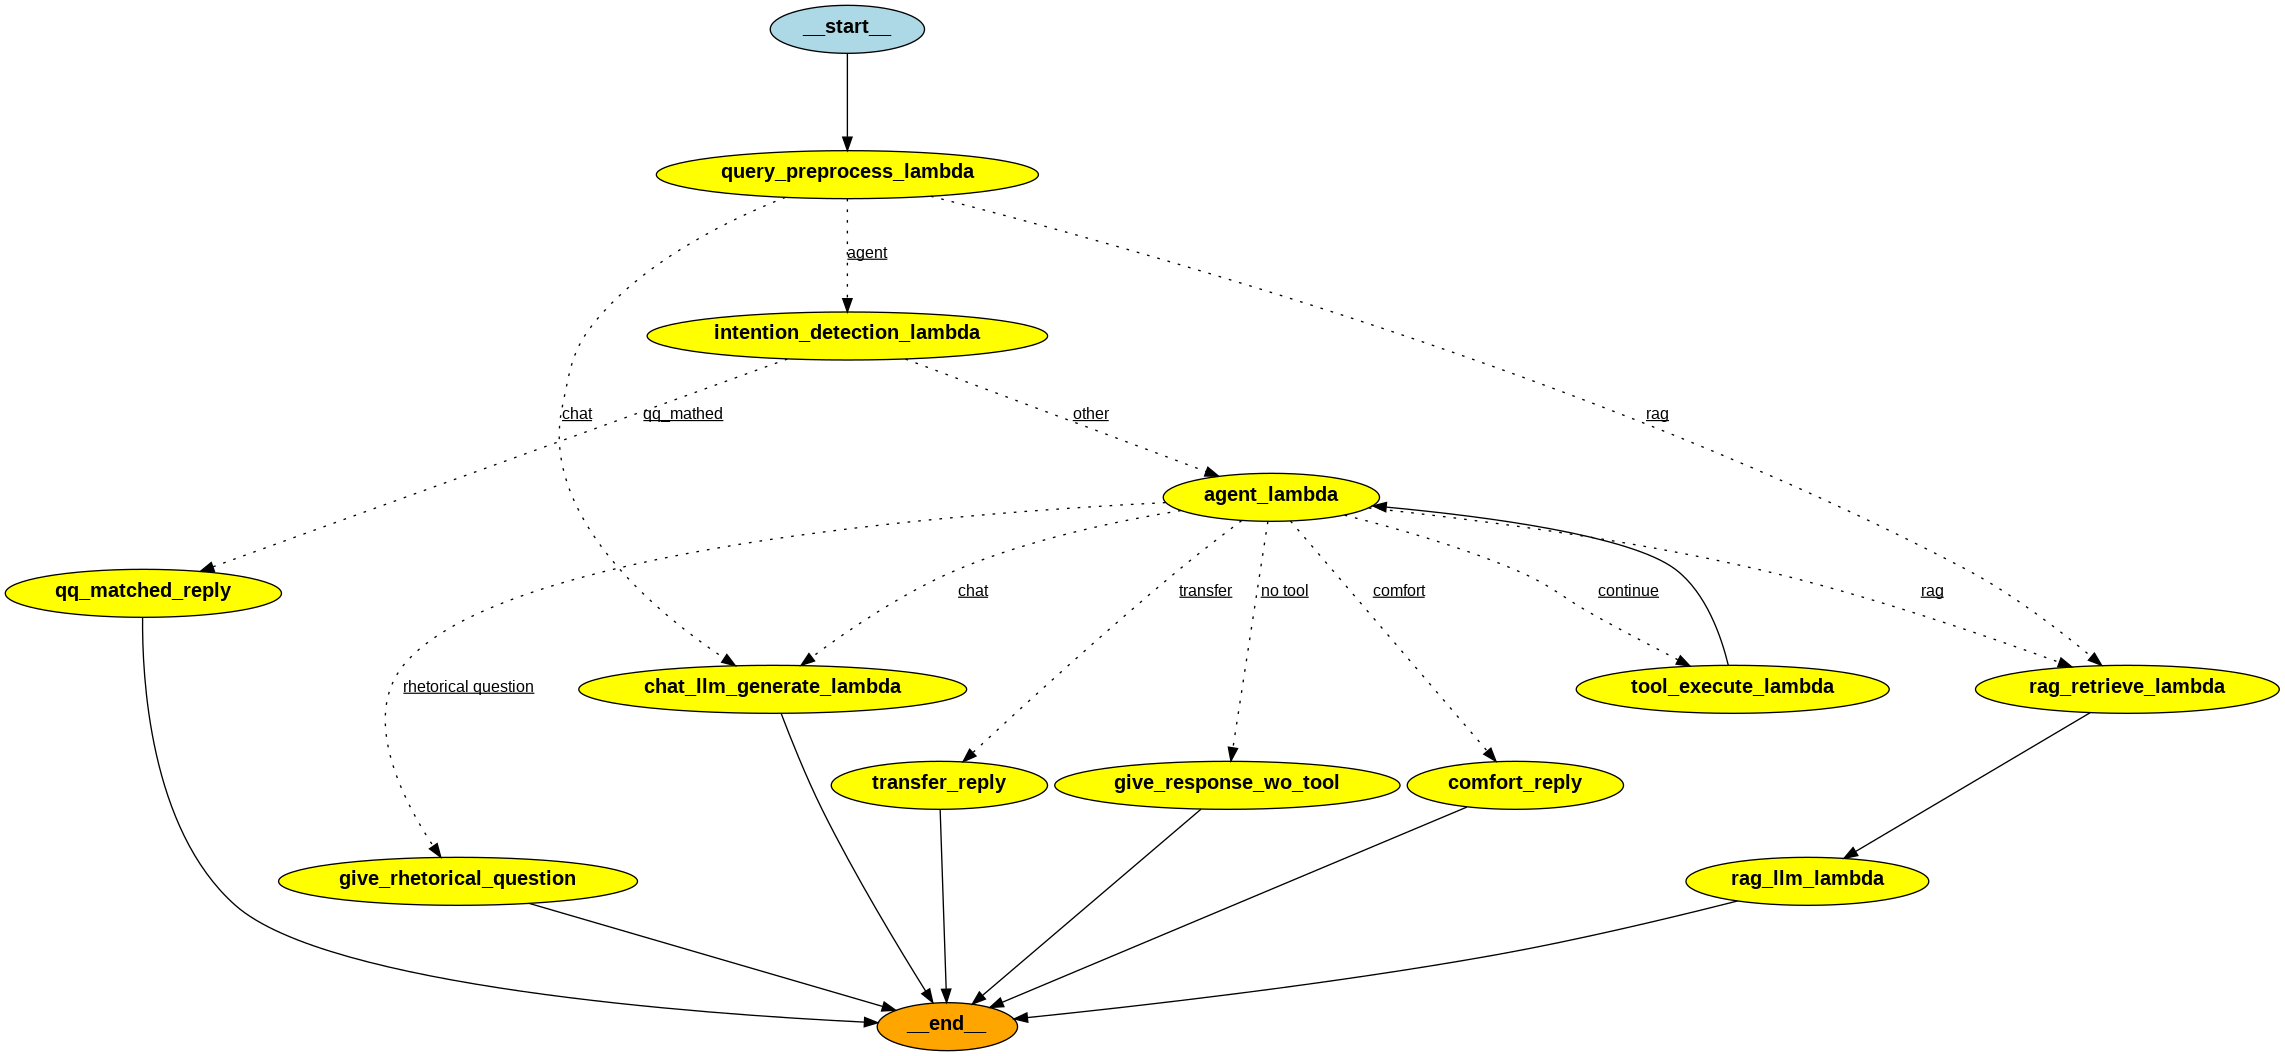
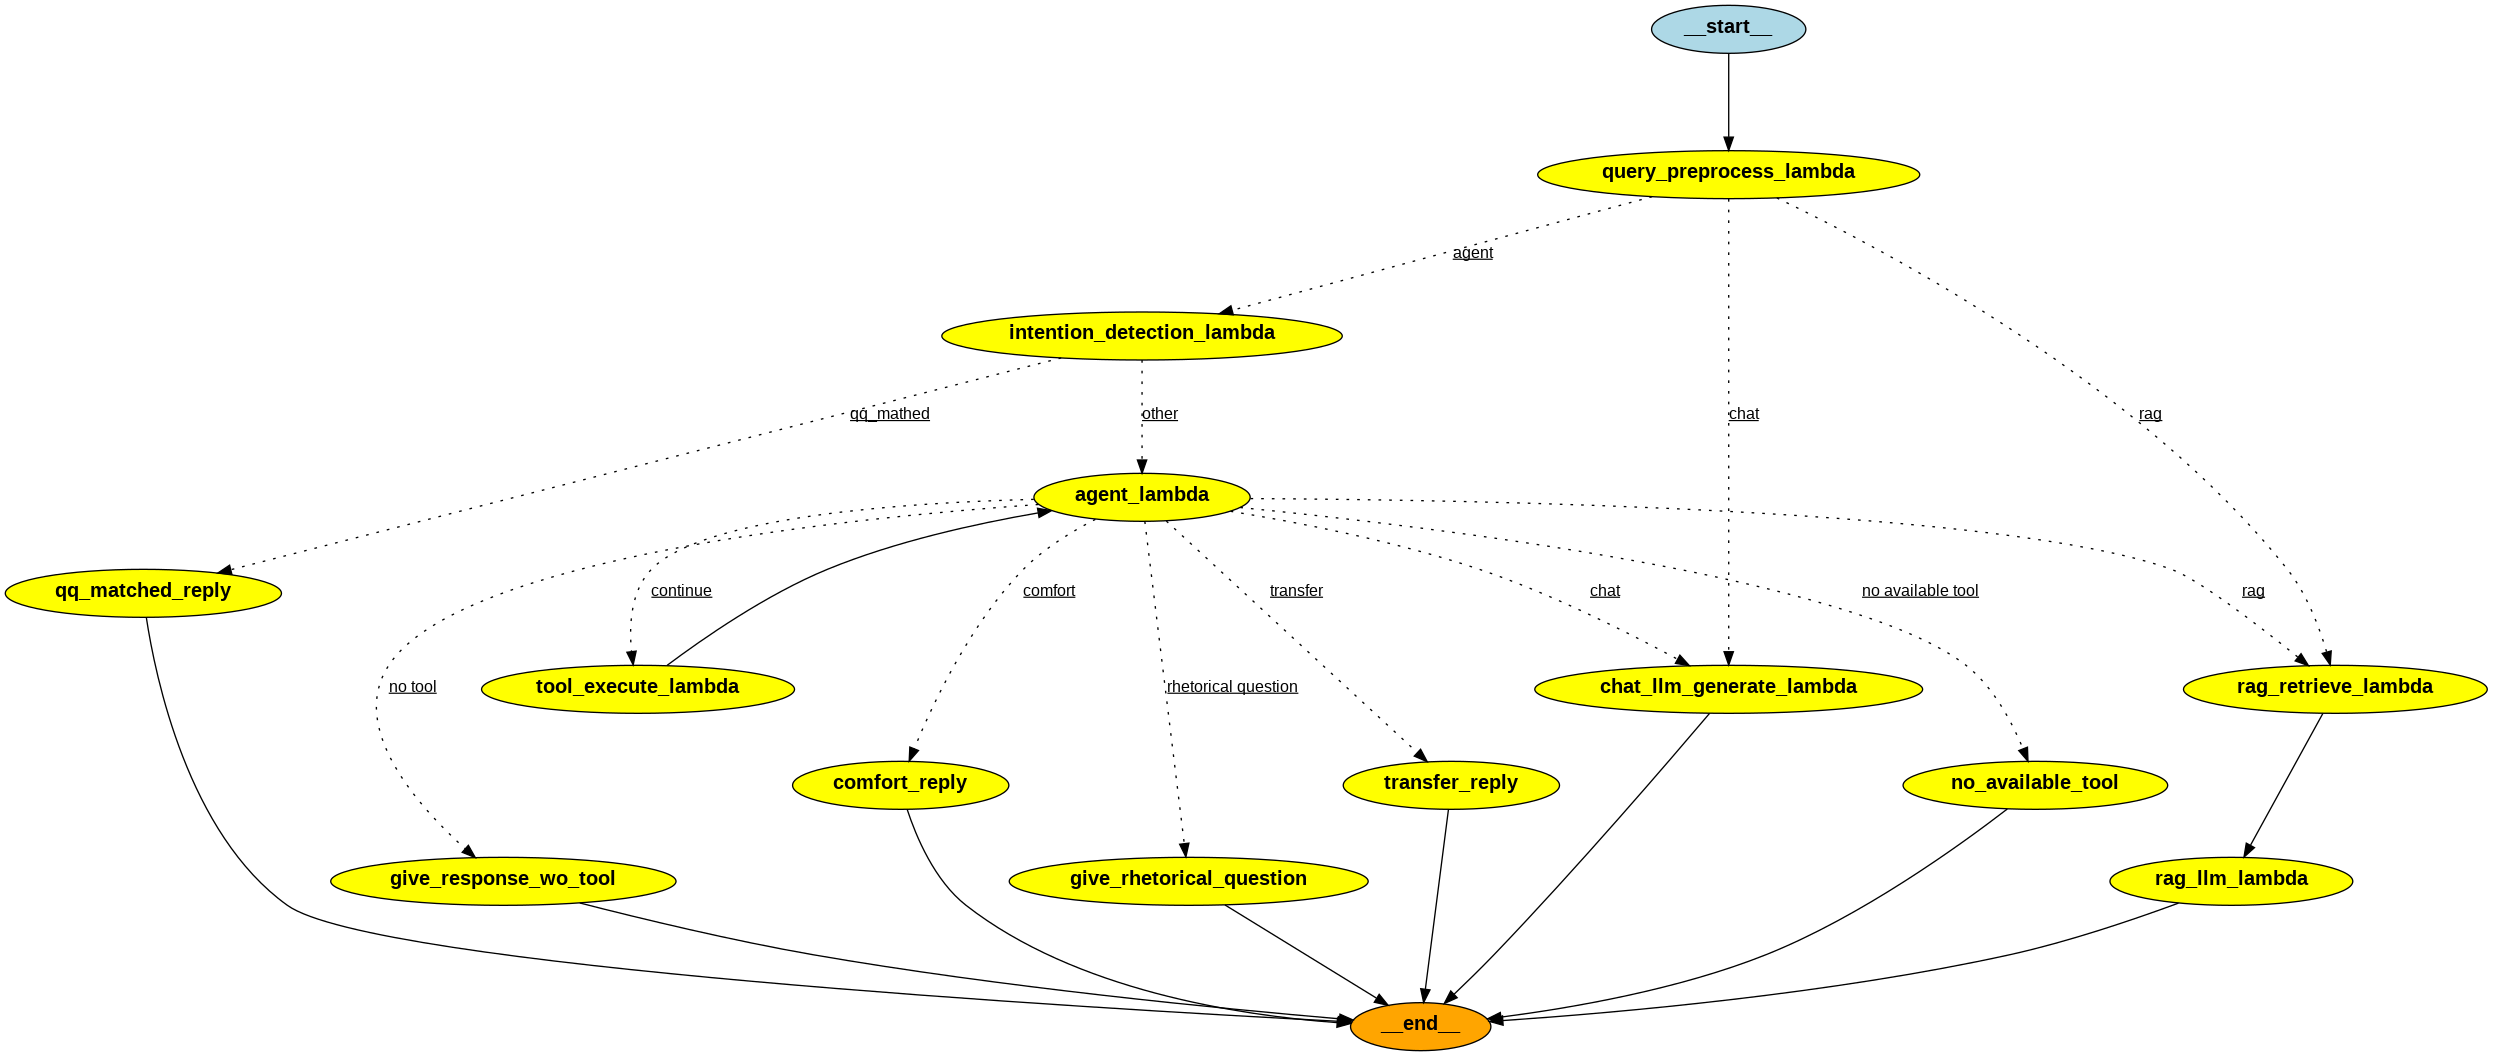
add no_available_tool

diff --git a/source/lambda/online/lambda_main/main_utils/online_entries/common_entry.py b/source/lambda/online/lambda_main/main_utils/online_entries/common_entry.py
@@ -66,7 +66,7 @@ def intention_detection_lambda(state: ChatbotState):
     current_tools:list[str] = list(set([e['intent'] for e in intention_fewshot_examples]))
     return {
         "intention_fewshot_examples": intention_fewshot_examples,
-        "current_tools": current_tools + ['give_rhetorical_question'],
+        "current_tools": current_tools,
         "intent_type":"other"
         }
 
@@ -201,6 +201,10 @@ def give_rhetorical_question(state:ChatbotState):
     recent_tool_calling:list[dict] = state['current_tool_calls'][0]
     return {"answer": recent_tool_calling['kwargs']['question']}
 
+def no_available_tool(state:ChatbotState):
+    recent_tool_calling:list[dict] = state['current_tool_calls'][0]
+    return {"answer": recent_tool_calling['kwargs']['response']}
+
 
 def give_tool_response(state:ChatbotState):
     recent_tool_calling:list[dict] = state['current_tool_calls'][0]
@@ -208,7 +212,7 @@ def give_tool_response(state:ChatbotState):
 
 
 def give_response_without_any_tool(state:ChatbotState):
-    chat_history = state['chat_history']
+    chat_history = state['agent_chat_history']
     return {"answer": chat_history[-1]['content']}
 
 def qq_matched_reply(state:ChatbotState):
@@ -241,12 +245,14 @@ def agent_route(state:dict):
     if recent_tool_name == "QA":
         return "rag"
 
-
     if recent_tool_name == "assist":
         return "chat"
     
     if recent_tool_call['name'] == "give_rhetorical_question":
         return "rhetorical question"
+    
+    if recent_tool_call['name'] == 'no_available_tool':
+        return "no available tool"
 
     return "continue"
      
@@ -265,6 +271,7 @@ def build_graph():
     workflow.add_node("comfort_reply",comfort_reply)
     workflow.add_node("transfer_reply", transfer_reply)
     workflow.add_node("give_rhetorical_question",give_rhetorical_question)
+    workflow.add_node("no_available_tool",no_available_tool)
     workflow.add_node("give_response_wo_tool",give_response_without_any_tool)
     workflow.add_node("rag_retrieve_lambda",rag_retrieve_lambda)
     workflow.add_node("rag_llm_lambda",rag_llm_lambda)
@@ -281,6 +288,7 @@ def build_graph():
     workflow.add_edge("transfer_reply",END)
     workflow.add_edge("chat_llm_generate_lambda",END)
     workflow.add_edge("give_rhetorical_question",END)
+    workflow.add_edge("no_available_tool",END)
     workflow.add_edge("give_response_wo_tool",END)
     workflow.add_edge("rag_retrieve_lambda","rag_llm_lambda")
     workflow.add_edge("rag_llm_lambda",END)
@@ -317,6 +325,7 @@ def build_graph():
             "transfer": "transfer_reply",
             "chat": "chat_llm_generate_lambda",
             "rag": "rag_retrieve_lambda",
+            "no available tool": "no_available_tool",
             # "response": "give_tool_response",
             "continue":"tool_execute_lambda"
         }

diff --git a/source/lambda/online/lambda_llm_generate/llm_generate_utils/llm_utils/llm_chains/tool_calling_chain_claude_xml.py b/source/lambda/online/lambda_llm_generate/llm_generate_utils/llm_utils/llm_chains/tool_calling_chain_claude_xml.py
@@ -34,6 +34,8 @@ from ..llm_models import Model
 
 tool_call_guidelines = """<guidlines>
 - Don't forget to output <function_calls></function_calls> when any tool is called.
+- You should call tools that are described in <tools></tools>.
+- In <thinking></thinking>, you should check whether the tool name you want to call is exists in <tools></tools>, if it is not exists, you should call "no_available_tool" tool.
 </guidlines>
 """
 
@@ -157,7 +159,7 @@ def convert_anthropic_xml_to_dict(model_id,function_calls:List[str], tools:list[
                     cur_tool = tool
                     break 
             
-            assert cur_tool is not None,function_call
+            assert cur_tool is not None,(f"tool: {tool_name} not found",function_call)
             # formatted_tool = convert_to_openai_function(cur_tool)
             arguments = {}
             for parameter_key in formatted_tool['parameters']['required']:
@@ -216,6 +218,7 @@ class Claude2ToolCallingChain(LLMChain):
         if not function_calls:
             return {"tool_calls":[],"content":message.content}
         
+        print(message.content)
         tool_calls = convert_anthropic_xml_to_dict(cls.model_id,function_calls,tools)
         message.tool_calls = tool_calls
         return {"tool_calls":tool_calls,"content":message.content}
@@ -251,7 +254,7 @@ class Claude2ToolCallingChain(LLMChain):
             model_id=cls.model_id,
             model_kwargs=model_kwargs,
         )
-        chain = tool_calling_template | RunnableLambda(lambda x: x.messages ) | llm | RunnableLambda(lambda message:cls.parse_tools_from_ai_message(message,tools=tools))
+        chain = tool_calling_template | RunnableLambda(lambda x: print(x.messages) or x.messages ) | llm | RunnableLambda(lambda message:cls.parse_tools_from_ai_message(message,tools=tools))
         
         return chain
 

diff --git a/source/lambda/online/lambda_main/test/main_websocket_test.py b/source/lambda/online/lambda_main/test/main_websocket_test.py
@@ -1,6 +1,7 @@
 import os 
 import sys
 import time
+import time
 import dotenv 
 dotenv.load_dotenv()
 try:
@@ -36,11 +37,7 @@ def get_answer(body,ws):
     return answer
 
 def test():
-    ws = create_connection(
-        ws_url
-    )
-    import time
-
+    ws = create_connection(ws_url)
     body = {
         "query": "hi",
         "entry_type": "common",
@@ -60,8 +57,51 @@ def test():
     return r  
 
 
+def test_multi_turns():
+    session_id = time.time()
+    ws = create_connection(ws_url)
+    body = {
+        "query": "今天星期几",
+        "entry_type": "common",
+        "session_id":f"test_{session_id}",
+        "chatbot_config": {
+            "chatbot_mode": "agent",
+            "use_history": True,
+            "use_websearch": False,
+            "default_llm_config":{
+                "model_id": "anthropic.claude-3-sonnet-20240229-v1:0", 
+                "model_kwargs": {"temperature": 0.0, "max_tokens": 4096}
+            }
+        }
+    }
+    r = get_answer(body,ws)
+    ws.close() 
+
+    print()
+
+    ws = create_connection(ws_url)
+    body = {
+        "query": "我在北京",
+        "entry_type": "common",
+        "session_id":f"test_{session_id}",
+        "chatbot_config": {
+            "chatbot_mode": "chat",
+            "use_history": True,
+            "use_websearch": False,
+            "default_llm_config":{
+                "model_id": "anthropic.claude-3-sonnet-20240229-v1:0", 
+                "model_kwargs": {"temperature": 0.0, "max_tokens": 4096}
+            }
+        }
+    }
+    r = get_answer(body,ws)
+    ws.close() 
+
+
+
+
 if __name__ == "__main__":
-    test()
+    test_multi_turns()
 
 
 

diff --git a/source/lambda/online/functions/tools.py b/source/lambda/online/functions/tools.py
@@ -99,6 +99,29 @@ tool_manager.register_tool(
 
 tool_manager.register_tool(
     {
+        "name":"no_available_tool",
+        "lambda_name": "xxxx",
+        "lambda_module_path": "functions.lambda_no_available_tool.no_available_tool",
+        "tool_def":{
+                "name": "no_available_tool",
+                "description": "If you find some tools are not available, call this tool",
+                "parameters": {
+                    "type": "object",
+                    "properties": {
+                        "response": {
+                            "description": "Response to user that no relevant tool exists to answer the question at hand",
+                            "type": "string"
+                    }
+                },
+                "required": ["response"]
+            }
+        }
+    }
+)
+
+
+tool_manager.register_tool(
+    {
         "name":"give_final_response",
         "lambda_name": "xxxx",
         "lambda_module_path": "functions.lambda_give_final_response.give_final_response",

diff --git a/source/lambda/online/lambda_main/test/main_local_test.py b/source/lambda/online/lambda_main/test/main_local_test.py
@@ -39,6 +39,7 @@ def generate_answer(query,
                     chatbot_config=None
                     ):
     chatbot_config = chatbot_config or {}
+    session_id = session_id or time.time()
 
 
     body = {
@@ -131,14 +132,21 @@ def test(chatbot_mode="chat"):
             }
         }
     }
-
+    
+    session_id = f"test_{time.time()}"
     generate_answer(
-        "how do you like football",
+        "今天星期几",
         stream=True,
+        session_id=session_id,
+        chatbot_config=chatbot_config
+    )
+    generate_answer(
+        "今天是2024年5月30号",
+        stream=True,
+        session_id=session_id,
         chatbot_config=chatbot_config
     )
 
-
 if __name__ == "__main__":
-    test(chatbot_mode="agent")
+    test(chatbot_mode="chat")
     

diff --git a/source/lambda/online/lambda_main/main_utils/parse_config.py b/source/lambda/online/lambda_main/main_utils/parse_config.py
@@ -102,5 +102,8 @@ def parse_common_entry_config(chatbot_config):
     tools:list = chatbot_config['agent_config']['tools']
     if "give_rhetorical_question" not in tools:
         tools.append('give_rhetorical_question')
+    
+    if "no_available_tool" not in tools:
+        tools.append('no_available_tool')
 
     return chatbot_config
